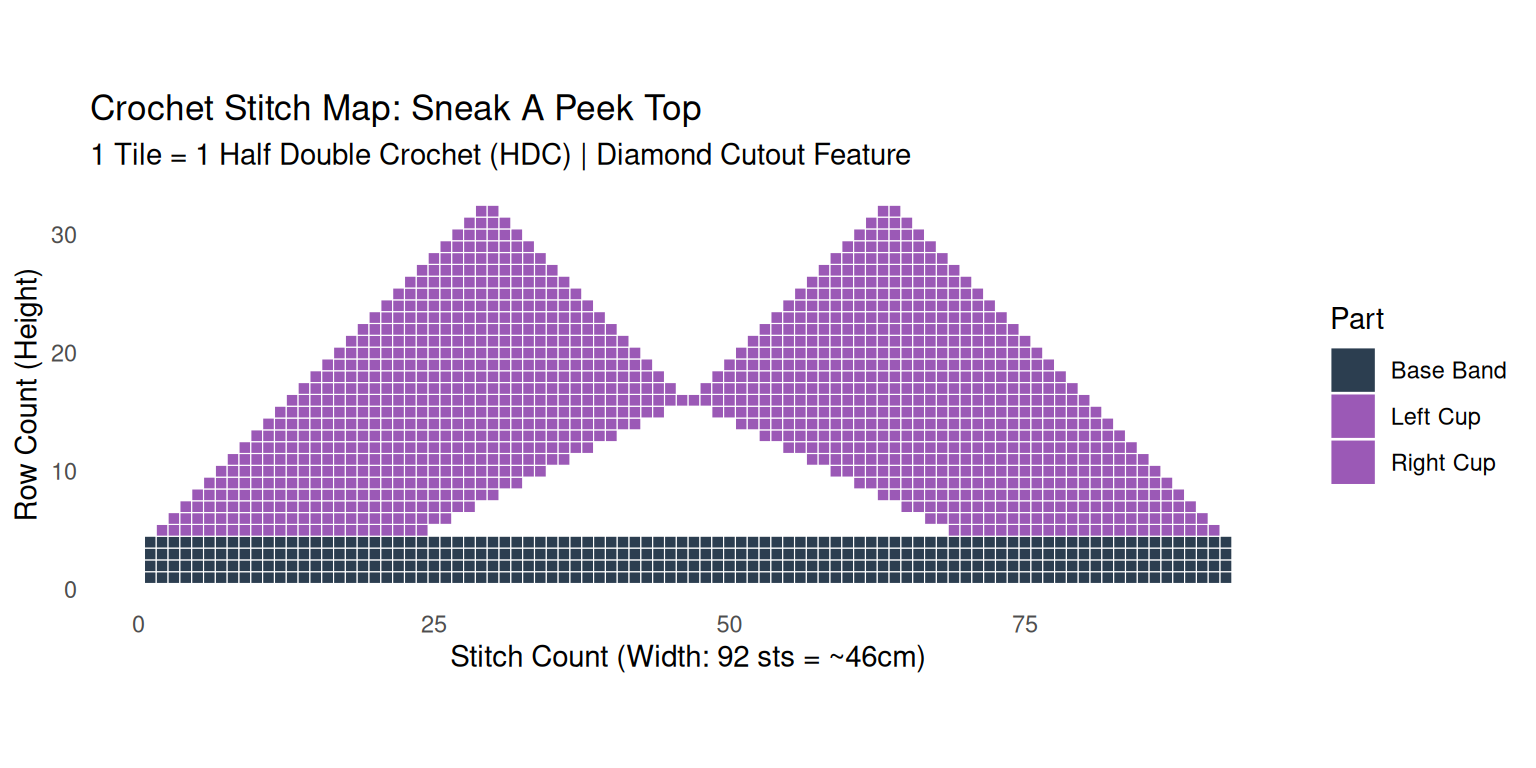
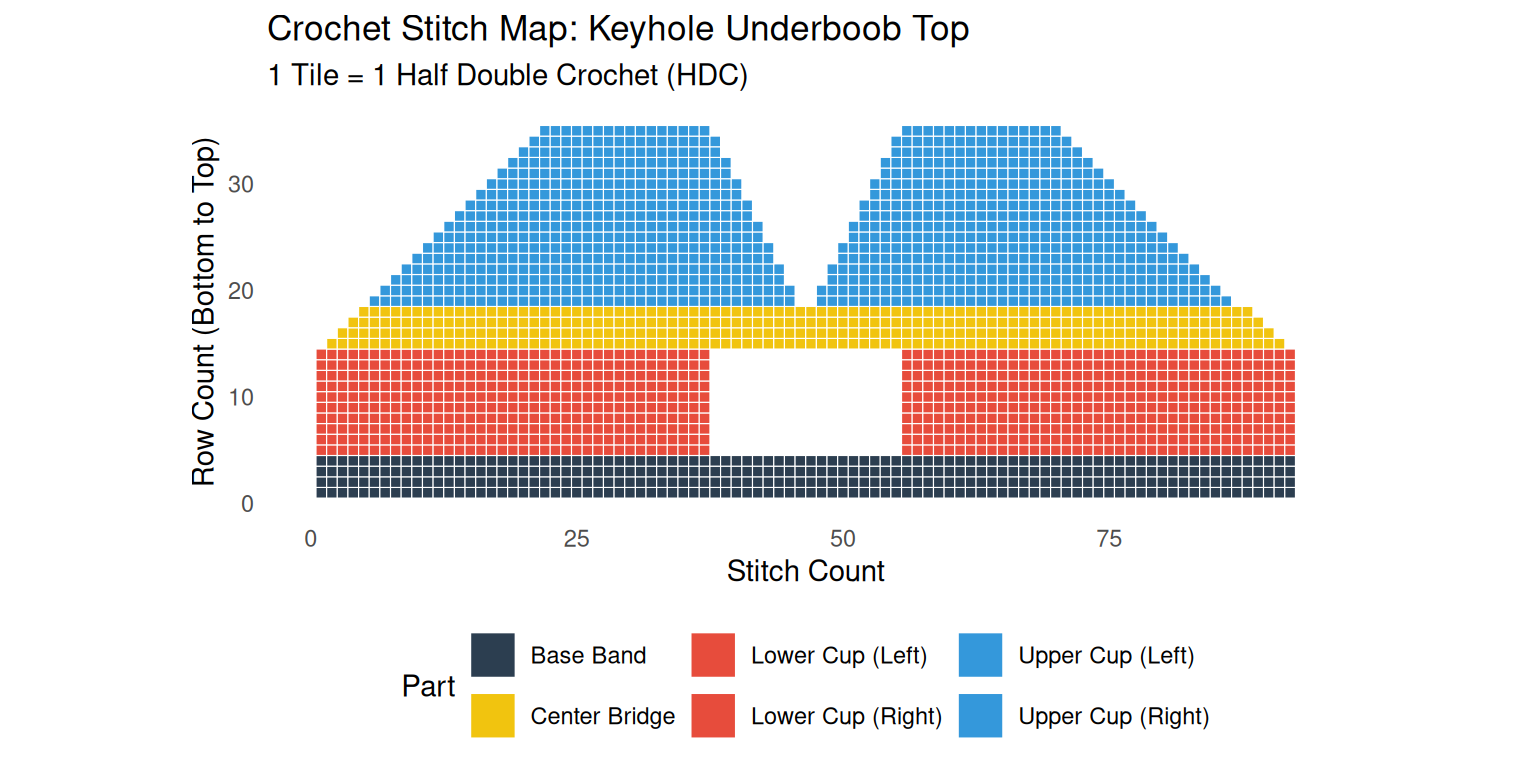
feat: update Sneak A Peek pattern to Keyhole Cutout

diff --git a/docs/projects/sneak_a_peek/index.html b/docs/projects/sneak_a_peek/index.html
@@ -8,7 +8,7 @@
 
 <meta name="dcterms.date" content="2026-05-25">
 
-<title>Sneak A Peek Top – Crochet Patterns</title>
+<title>Keyhole Underboob Top – Crochet Patterns</title>
 <style>
 code{white-space: pre-wrap;}
 span.smallcaps{font-variant: small-caps;}
@@ -155,9 +155,10 @@ pre > code.sourceCode > span > a:first-child::before { text-decoration: underlin
   <li><a href="#stitch-map-visualization" id="toc-stitch-map-visualization" class="nav-link active" data-scroll-target="#stitch-map-visualization">Stitch Map Visualization</a></li>
   <li><a href="#written-pattern" id="toc-written-pattern" class="nav-link" data-scroll-target="#written-pattern">Written Pattern</a>
   <ul class="collapse">
-  <li><a href="#base-band" id="toc-base-band" class="nav-link" data-scroll-target="#base-band">Base Band</a></li>
-  <li><a href="#left-cup" id="toc-left-cup" class="nav-link" data-scroll-target="#left-cup">Left Cup</a></li>
-  <li><a href="#right-cup" id="toc-right-cup" class="nav-link" data-scroll-target="#right-cup">Right Cup</a></li>
+  <li><a href="#base-band" id="toc-base-band" class="nav-link" data-scroll-target="#base-band">1. Base Band</a></li>
+  <li><a href="#the-cutout-region-sides-of-the-window" id="toc-the-cutout-region-sides-of-the-window" class="nav-link" data-scroll-target="#the-cutout-region-sides-of-the-window">2. The Cutout Region (Sides of the Window)</a></li>
+  <li><a href="#the-sternum-bridge-closing-the-window" id="toc-the-sternum-bridge-closing-the-window" class="nav-link" data-scroll-target="#the-sternum-bridge-closing-the-window">3. The Sternum Bridge (Closing the Window)</a></li>
+  <li><a href="#the-upper-cups-triangles" id="toc-the-upper-cups-triangles" class="nav-link" data-scroll-target="#the-upper-cups-triangles">4. The Upper Cups (Triangles)</a></li>
   </ul></li>
   </ul>
 </nav>
@@ -167,7 +168,7 @@ pre > code.sourceCode > span > a:first-child::before { text-decoration: underlin
 
 <header id="title-block-header" class="quarto-title-block default">
 <div class="quarto-title">
-<h1 class="title">Sneak A Peek Top</h1>
+<h1 class="title">Keyhole Underboob Top</h1>
 </div>
 
 
@@ -197,57 +198,56 @@ pre > code.sourceCode > span > a:first-child::before { text-decoration: underlin
 <span id="cb1-2"><a href="#cb1-2" aria-hidden="true" tabindex="-1"></a><span class="fu">library</span>(dplyr)</span>
 <span id="cb1-3"><a href="#cb1-3" aria-hidden="true" tabindex="-1"></a></span>
 <span id="cb1-4"><a href="#cb1-4" aria-hidden="true" tabindex="-1"></a><span class="co"># Gauge: 2 HDC stitches = 1 cm</span></span>
-<span id="cb1-5"><a href="#cb1-5" aria-hidden="true" tabindex="-1"></a><span class="co"># Front panel width = 46 cm (92 stitches)</span></span>
-<span id="cb1-6"><a href="#cb1-6" aria-hidden="true" tabindex="-1"></a></span>
-<span id="cb1-7"><a href="#cb1-7" aria-hidden="true" tabindex="-1"></a>grid <span class="ot">&lt;-</span> <span class="fu">expand.grid</span>(<span class="at">Stitch =</span> <span class="dv">1</span><span class="sc">:</span><span class="dv">92</span>, <span class="at">Row =</span> <span class="dv">1</span><span class="sc">:</span><span class="dv">33</span>)</span>
-<span id="cb1-8"><a href="#cb1-8" aria-hidden="true" tabindex="-1"></a></span>
-<span id="cb1-9"><a href="#cb1-9" aria-hidden="true" tabindex="-1"></a>grid <span class="ot">&lt;-</span> grid <span class="sc">%&gt;%</span></span>
-<span id="cb1-10"><a href="#cb1-10" aria-hidden="true" tabindex="-1"></a>  <span class="fu">mutate</span>(</span>
-<span id="cb1-11"><a href="#cb1-11" aria-hidden="true" tabindex="-1"></a>    <span class="at">Part =</span> <span class="fu">case_when</span>(</span>
-<span id="cb1-12"><a href="#cb1-12" aria-hidden="true" tabindex="-1"></a>      Row <span class="sc">&lt;=</span> <span class="dv">4</span> <span class="sc">~</span> <span class="st">"Base Band"</span>,</span>
-<span id="cb1-13"><a href="#cb1-13" aria-hidden="true" tabindex="-1"></a>      </span>
-<span id="cb1-14"><a href="#cb1-14" aria-hidden="true" tabindex="-1"></a>      <span class="co"># Left Cup Lower (Rows 5 to 16)</span></span>
-<span id="cb1-15"><a href="#cb1-15" aria-hidden="true" tabindex="-1"></a>      <span class="co"># Outer edge shrinks by 1. Inner edge grows by 2.</span></span>
-<span id="cb1-16"><a href="#cb1-16" aria-hidden="true" tabindex="-1"></a>      Row <span class="sc">&gt;</span> <span class="dv">4</span> <span class="sc">&amp;</span> Row <span class="sc">&lt;=</span> <span class="dv">16</span> <span class="sc">&amp;</span> </span>
-<span id="cb1-17"><a href="#cb1-17" aria-hidden="true" tabindex="-1"></a>      Stitch <span class="sc">&gt;=</span> (<span class="dv">1</span> <span class="sc">+</span> (Row<span class="dv">-4</span>)) <span class="sc">&amp;</span> </span>
-<span id="cb1-18"><a href="#cb1-18" aria-hidden="true" tabindex="-1"></a>      Stitch <span class="sc">&lt;=</span> (<span class="dv">22</span> <span class="sc">+</span> <span class="dv">2</span><span class="sc">*</span>(Row<span class="dv">-4</span>)) <span class="sc">~</span> <span class="st">"Left Cup"</span>,</span>
-<span id="cb1-19"><a href="#cb1-19" aria-hidden="true" tabindex="-1"></a>      </span>
-<span id="cb1-20"><a href="#cb1-20" aria-hidden="true" tabindex="-1"></a>      <span class="co"># Left Cup Upper (Rows 17 to 32)</span></span>
-<span id="cb1-21"><a href="#cb1-21" aria-hidden="true" tabindex="-1"></a>      <span class="co"># Outer edge shrinks by 1. Inner edge shrinks by 1.</span></span>
-<span id="cb1-22"><a href="#cb1-22" aria-hidden="true" tabindex="-1"></a>      Row <span class="sc">&gt;</span> <span class="dv">16</span> <span class="sc">&amp;</span> </span>
-<span id="cb1-23"><a href="#cb1-23" aria-hidden="true" tabindex="-1"></a>      Stitch <span class="sc">&gt;=</span> (<span class="dv">13</span> <span class="sc">+</span> (Row<span class="dv">-16</span>)) <span class="sc">&amp;</span> </span>
-<span id="cb1-24"><a href="#cb1-24" aria-hidden="true" tabindex="-1"></a>      Stitch <span class="sc">&lt;=</span> (<span class="dv">46</span> <span class="sc">-</span> (Row<span class="dv">-16</span>)) <span class="sc">~</span> <span class="st">"Left Cup"</span>,</span>
-<span id="cb1-25"><a href="#cb1-25" aria-hidden="true" tabindex="-1"></a>      </span>
-<span id="cb1-26"><a href="#cb1-26" aria-hidden="true" tabindex="-1"></a>      <span class="co"># Right Cup Lower (Rows 5 to 16)</span></span>
-<span id="cb1-27"><a href="#cb1-27" aria-hidden="true" tabindex="-1"></a>      <span class="co"># Inner edge grows by 2. Outer edge shrinks by 1.</span></span>
-<span id="cb1-28"><a href="#cb1-28" aria-hidden="true" tabindex="-1"></a>      Row <span class="sc">&gt;</span> <span class="dv">4</span> <span class="sc">&amp;</span> Row <span class="sc">&lt;=</span> <span class="dv">16</span> <span class="sc">&amp;</span> </span>
-<span id="cb1-29"><a href="#cb1-29" aria-hidden="true" tabindex="-1"></a>      Stitch <span class="sc">&gt;=</span> (<span class="dv">71</span> <span class="sc">-</span> <span class="dv">2</span><span class="sc">*</span>(Row<span class="dv">-4</span>)) <span class="sc">&amp;</span> </span>
-<span id="cb1-30"><a href="#cb1-30" aria-hidden="true" tabindex="-1"></a>      Stitch <span class="sc">&lt;=</span> (<span class="dv">92</span> <span class="sc">-</span> (Row<span class="dv">-4</span>)) <span class="sc">~</span> <span class="st">"Right Cup"</span>,</span>
-<span id="cb1-31"><a href="#cb1-31" aria-hidden="true" tabindex="-1"></a>      </span>
-<span id="cb1-32"><a href="#cb1-32" aria-hidden="true" tabindex="-1"></a>      <span class="co"># Right Cup Upper (Rows 17 to 32)</span></span>
-<span id="cb1-33"><a href="#cb1-33" aria-hidden="true" tabindex="-1"></a>      <span class="co"># Inner edge shrinks by 1. Outer edge shrinks by 1.</span></span>
-<span id="cb1-34"><a href="#cb1-34" aria-hidden="true" tabindex="-1"></a>      Row <span class="sc">&gt;</span> <span class="dv">16</span> <span class="sc">&amp;</span> </span>
-<span id="cb1-35"><a href="#cb1-35" aria-hidden="true" tabindex="-1"></a>      Stitch <span class="sc">&gt;=</span> (<span class="dv">47</span> <span class="sc">+</span> (Row<span class="dv">-16</span>)) <span class="sc">&amp;</span> </span>
-<span id="cb1-36"><a href="#cb1-36" aria-hidden="true" tabindex="-1"></a>      Stitch <span class="sc">&lt;=</span> (<span class="dv">80</span> <span class="sc">-</span> (Row<span class="dv">-16</span>)) <span class="sc">~</span> <span class="st">"Right Cup"</span>,</span>
-<span id="cb1-37"><a href="#cb1-37" aria-hidden="true" tabindex="-1"></a>      </span>
-<span id="cb1-38"><a href="#cb1-38" aria-hidden="true" tabindex="-1"></a>      <span class="cn">TRUE</span> <span class="sc">~</span> <span class="st">"Empty Space"</span></span>
-<span id="cb1-39"><a href="#cb1-39" aria-hidden="true" tabindex="-1"></a>    )</span>
-<span id="cb1-40"><a href="#cb1-40" aria-hidden="true" tabindex="-1"></a>  ) <span class="sc">%&gt;%</span></span>
-<span id="cb1-41"><a href="#cb1-41" aria-hidden="true" tabindex="-1"></a>  <span class="fu">filter</span>(Part <span class="sc">!=</span> <span class="st">"Empty Space"</span>)</span>
-<span id="cb1-42"><a href="#cb1-42" aria-hidden="true" tabindex="-1"></a></span>
-<span id="cb1-43"><a href="#cb1-43" aria-hidden="true" tabindex="-1"></a><span class="co"># Plotting the stitch map</span></span>
-<span id="cb1-44"><a href="#cb1-44" aria-hidden="true" tabindex="-1"></a><span class="fu">ggplot</span>(grid, <span class="fu">aes</span>(<span class="at">x =</span> Stitch, <span class="at">y =</span> Row, <span class="at">fill =</span> Part)) <span class="sc">+</span></span>
-<span id="cb1-45"><a href="#cb1-45" aria-hidden="true" tabindex="-1"></a>  <span class="fu">geom_tile</span>(<span class="at">color =</span> <span class="st">"white"</span>, <span class="at">linewidth =</span> <span class="fl">0.2</span>) <span class="sc">+</span></span>
-<span id="cb1-46"><a href="#cb1-46" aria-hidden="true" tabindex="-1"></a>  <span class="fu">scale_fill_manual</span>(<span class="at">values =</span> <span class="fu">c</span>(<span class="st">"Base Band"</span> <span class="ot">=</span> <span class="st">"#2C3E50"</span>, <span class="st">"Left Cup"</span> <span class="ot">=</span> <span class="st">"#9B59B6"</span>, <span class="st">"Right Cup"</span> <span class="ot">=</span> <span class="st">"#9B59B6"</span>)) <span class="sc">+</span></span>
-<span id="cb1-47"><a href="#cb1-47" aria-hidden="true" tabindex="-1"></a>  <span class="fu">theme_minimal</span>() <span class="sc">+</span></span>
-<span id="cb1-48"><a href="#cb1-48" aria-hidden="true" tabindex="-1"></a>  <span class="fu">coord_fixed</span>(<span class="at">ratio =</span> <span class="dv">1</span>) <span class="sc">+</span> </span>
-<span id="cb1-49"><a href="#cb1-49" aria-hidden="true" tabindex="-1"></a>  <span class="fu">labs</span>(</span>
-<span id="cb1-50"><a href="#cb1-50" aria-hidden="true" tabindex="-1"></a>    <span class="at">title =</span> <span class="st">"Crochet Stitch Map: Sneak A Peek Top"</span>,</span>
-<span id="cb1-51"><a href="#cb1-51" aria-hidden="true" tabindex="-1"></a>    <span class="at">subtitle =</span> <span class="st">"1 Tile = 1 Half Double Crochet (HDC) | Diamond Cutout Feature"</span>,</span>
-<span id="cb1-52"><a href="#cb1-52" aria-hidden="true" tabindex="-1"></a>    <span class="at">x =</span> <span class="st">"Stitch Count (Width: 92 sts = ~46cm)"</span>, </span>
-<span id="cb1-53"><a href="#cb1-53" aria-hidden="true" tabindex="-1"></a>    <span class="at">y =</span> <span class="st">"Row Count (Height)"</span></span>
-<span id="cb1-54"><a href="#cb1-54" aria-hidden="true" tabindex="-1"></a>  ) <span class="sc">+</span></span>
-<span id="cb1-55"><a href="#cb1-55" aria-hidden="true" tabindex="-1"></a>  <span class="fu">theme</span>(<span class="at">panel.grid =</span> <span class="fu">element_blank</span>())</span></code></pre></div><button title="Copy to Clipboard" class="code-copy-button"><i class="bi"></i></button></div>
+<span id="cb1-5"><a href="#cb1-5" aria-hidden="true" tabindex="-1"></a><span class="co"># Front panel width: 92 stitches</span></span>
+<span id="cb1-6"><a href="#cb1-6" aria-hidden="true" tabindex="-1"></a><span class="co"># Nipple distance: Peaks at X=20 and X=72</span></span>
+<span id="cb1-7"><a href="#cb1-7" aria-hidden="true" tabindex="-1"></a></span>
+<span id="cb1-8"><a href="#cb1-8" aria-hidden="true" tabindex="-1"></a>grid <span class="ot">&lt;-</span> <span class="fu">expand.grid</span>(<span class="at">Stitch =</span> <span class="dv">1</span><span class="sc">:</span><span class="dv">92</span>, <span class="at">Row =</span> <span class="dv">1</span><span class="sc">:</span><span class="dv">35</span>)</span>
+<span id="cb1-9"><a href="#cb1-9" aria-hidden="true" tabindex="-1"></a></span>
+<span id="cb1-10"><a href="#cb1-10" aria-hidden="true" tabindex="-1"></a>grid <span class="ot">&lt;-</span> grid <span class="sc">%&gt;%</span></span>
+<span id="cb1-11"><a href="#cb1-11" aria-hidden="true" tabindex="-1"></a>  <span class="fu">mutate</span>(</span>
+<span id="cb1-12"><a href="#cb1-12" aria-hidden="true" tabindex="-1"></a>    <span class="at">Part =</span> <span class="fu">case_when</span>(</span>
+<span id="cb1-13"><a href="#cb1-13" aria-hidden="true" tabindex="-1"></a>      <span class="co"># 1. The Base Band (Solid support under the cutout)</span></span>
+<span id="cb1-14"><a href="#cb1-14" aria-hidden="true" tabindex="-1"></a>      Row <span class="sc">&lt;=</span> <span class="dv">4</span> <span class="sc">~</span> <span class="st">"Base Band"</span>,</span>
+<span id="cb1-15"><a href="#cb1-15" aria-hidden="true" tabindex="-1"></a>      </span>
+<span id="cb1-16"><a href="#cb1-16" aria-hidden="true" tabindex="-1"></a>      <span class="co"># 2. The Cutout Region (Rows 5 to 14)</span></span>
+<span id="cb1-17"><a href="#cb1-17" aria-hidden="true" tabindex="-1"></a>      <span class="co"># Creating the left and right sides, leaving a central 18-stitch gap for the window</span></span>
+<span id="cb1-18"><a href="#cb1-18" aria-hidden="true" tabindex="-1"></a>      Row <span class="sc">&gt;=</span> <span class="dv">5</span> <span class="sc">&amp;</span> Row <span class="sc">&lt;=</span> <span class="dv">14</span> <span class="sc">&amp;</span> Stitch <span class="sc">&lt;=</span> <span class="dv">37</span> <span class="sc">~</span> <span class="st">"Lower Cup (Left)"</span>,</span>
+<span id="cb1-19"><a href="#cb1-19" aria-hidden="true" tabindex="-1"></a>      Row <span class="sc">&gt;=</span> <span class="dv">5</span> <span class="sc">&amp;</span> Row <span class="sc">&lt;=</span> <span class="dv">14</span> <span class="sc">&amp;</span> Stitch <span class="sc">&gt;=</span> <span class="dv">56</span> <span class="sc">~</span> <span class="st">"Lower Cup (Right)"</span>,</span>
+<span id="cb1-20"><a href="#cb1-20" aria-hidden="true" tabindex="-1"></a>      </span>
+<span id="cb1-21"><a href="#cb1-21" aria-hidden="true" tabindex="-1"></a>      <span class="co"># 3. The Sternum Bridge (Rows 15 to 18)</span></span>
+<span id="cb1-22"><a href="#cb1-22" aria-hidden="true" tabindex="-1"></a>      <span class="co"># The fabric reconnects above the hole. The outer edges begin to taper in slightly.</span></span>
+<span id="cb1-23"><a href="#cb1-23" aria-hidden="true" tabindex="-1"></a>      Row <span class="sc">&gt;=</span> <span class="dv">15</span> <span class="sc">&amp;</span> Row <span class="sc">&lt;=</span> <span class="dv">18</span> <span class="sc">&amp;</span> Stitch <span class="sc">&gt;=</span> (<span class="dv">1</span> <span class="sc">+</span> (Row<span class="dv">-14</span>)) <span class="sc">&amp;</span> Stitch <span class="sc">&lt;=</span> (<span class="dv">92</span> <span class="sc">-</span> (Row<span class="dv">-14</span>)) <span class="sc">~</span> <span class="st">"Center Bridge"</span>,</span>
+<span id="cb1-24"><a href="#cb1-24" aria-hidden="true" tabindex="-1"></a>      </span>
+<span id="cb1-25"><a href="#cb1-25" aria-hidden="true" tabindex="-1"></a>      <span class="co"># 4. The Upper Cups (Rows 19 to 35)</span></span>
+<span id="cb1-26"><a href="#cb1-26" aria-hidden="true" tabindex="-1"></a>      <span class="co"># Splits back into two triangles tapering up to the neck straps (X=20 and X=72)</span></span>
+<span id="cb1-27"><a href="#cb1-27" aria-hidden="true" tabindex="-1"></a>      Row <span class="sc">&gt;=</span> <span class="dv">19</span> <span class="sc">&amp;</span> Stitch <span class="sc">&gt;=</span> (<span class="dv">5</span> <span class="sc">+</span> (Row<span class="dv">-18</span>)) <span class="sc">&amp;</span> Stitch <span class="sc">&lt;=</span> (<span class="dv">46</span> <span class="sc">-</span> (Row<span class="dv">-18</span>)<span class="sc">*</span><span class="fl">0.5</span>) <span class="sc">~</span> <span class="st">"Upper Cup (Left)"</span>,</span>
+<span id="cb1-28"><a href="#cb1-28" aria-hidden="true" tabindex="-1"></a>      Row <span class="sc">&gt;=</span> <span class="dv">19</span> <span class="sc">&amp;</span> Stitch <span class="sc">&gt;=</span> (<span class="dv">47</span> <span class="sc">+</span> (Row<span class="dv">-18</span>)<span class="sc">*</span><span class="fl">0.5</span>) <span class="sc">&amp;</span> Stitch <span class="sc">&lt;=</span> (<span class="dv">87</span> <span class="sc">-</span> (Row<span class="dv">-18</span>)) <span class="sc">~</span> <span class="st">"Upper Cup (Right)"</span>,</span>
+<span id="cb1-29"><a href="#cb1-29" aria-hidden="true" tabindex="-1"></a>      </span>
+<span id="cb1-30"><a href="#cb1-30" aria-hidden="true" tabindex="-1"></a>      <span class="cn">TRUE</span> <span class="sc">~</span> <span class="st">"Empty Space"</span></span>
+<span id="cb1-31"><a href="#cb1-31" aria-hidden="true" tabindex="-1"></a>    )</span>
+<span id="cb1-32"><a href="#cb1-32" aria-hidden="true" tabindex="-1"></a>  ) <span class="sc">%&gt;%</span></span>
+<span id="cb1-33"><a href="#cb1-33" aria-hidden="true" tabindex="-1"></a>  <span class="fu">filter</span>(Part <span class="sc">!=</span> <span class="st">"Empty Space"</span>)</span>
+<span id="cb1-34"><a href="#cb1-34" aria-hidden="true" tabindex="-1"></a></span>
+<span id="cb1-35"><a href="#cb1-35" aria-hidden="true" tabindex="-1"></a><span class="co"># Plotting the updated stitch map</span></span>
+<span id="cb1-36"><a href="#cb1-36" aria-hidden="true" tabindex="-1"></a><span class="fu">ggplot</span>(grid, <span class="fu">aes</span>(<span class="at">x =</span> Stitch, <span class="at">y =</span> Row, <span class="at">fill =</span> Part)) <span class="sc">+</span></span>
+<span id="cb1-37"><a href="#cb1-37" aria-hidden="true" tabindex="-1"></a>  <span class="fu">geom_tile</span>(<span class="at">color =</span> <span class="st">"white"</span>, <span class="at">linewidth =</span> <span class="fl">0.2</span>) <span class="sc">+</span></span>
+<span id="cb1-38"><a href="#cb1-38" aria-hidden="true" tabindex="-1"></a>  <span class="fu">scale_fill_manual</span>(<span class="at">values =</span> <span class="fu">c</span>(</span>
+<span id="cb1-39"><a href="#cb1-39" aria-hidden="true" tabindex="-1"></a>    <span class="st">"Base Band"</span> <span class="ot">=</span> <span class="st">"#2C3E50"</span>, </span>
+<span id="cb1-40"><a href="#cb1-40" aria-hidden="true" tabindex="-1"></a>    <span class="st">"Lower Cup (Left)"</span> <span class="ot">=</span> <span class="st">"#E74C3C"</span>, </span>
+<span id="cb1-41"><a href="#cb1-41" aria-hidden="true" tabindex="-1"></a>    <span class="st">"Lower Cup (Right)"</span> <span class="ot">=</span> <span class="st">"#E74C3C"</span>,</span>
+<span id="cb1-42"><a href="#cb1-42" aria-hidden="true" tabindex="-1"></a>    <span class="st">"Center Bridge"</span> <span class="ot">=</span> <span class="st">"#F1C40F"</span>,</span>
+<span id="cb1-43"><a href="#cb1-43" aria-hidden="true" tabindex="-1"></a>    <span class="st">"Upper Cup (Left)"</span> <span class="ot">=</span> <span class="st">"#3498DB"</span>,</span>
+<span id="cb1-44"><a href="#cb1-44" aria-hidden="true" tabindex="-1"></a>    <span class="st">"Upper Cup (Right)"</span> <span class="ot">=</span> <span class="st">"#3498DB"</span></span>
+<span id="cb1-45"><a href="#cb1-45" aria-hidden="true" tabindex="-1"></a>  )) <span class="sc">+</span></span>
+<span id="cb1-46"><a href="#cb1-46" aria-hidden="true" tabindex="-1"></a>  <span class="fu">theme_minimal</span>() <span class="sc">+</span></span>
+<span id="cb1-47"><a href="#cb1-47" aria-hidden="true" tabindex="-1"></a>  <span class="fu">coord_fixed</span>(<span class="at">ratio =</span> <span class="dv">1</span>) <span class="sc">+</span> </span>
+<span id="cb1-48"><a href="#cb1-48" aria-hidden="true" tabindex="-1"></a>  <span class="fu">labs</span>(</span>
+<span id="cb1-49"><a href="#cb1-49" aria-hidden="true" tabindex="-1"></a>    <span class="at">title =</span> <span class="st">"Crochet Stitch Map: Keyhole Underboob Top"</span>,</span>
+<span id="cb1-50"><a href="#cb1-50" aria-hidden="true" tabindex="-1"></a>    <span class="at">subtitle =</span> <span class="st">"1 Tile = 1 Half Double Crochet (HDC)"</span>,</span>
+<span id="cb1-51"><a href="#cb1-51" aria-hidden="true" tabindex="-1"></a>    <span class="at">x =</span> <span class="st">"Stitch Count"</span>, </span>
+<span id="cb1-52"><a href="#cb1-52" aria-hidden="true" tabindex="-1"></a>    <span class="at">y =</span> <span class="st">"Row Count (Bottom to Top)"</span></span>
+<span id="cb1-53"><a href="#cb1-53" aria-hidden="true" tabindex="-1"></a>  ) <span class="sc">+</span></span>
+<span id="cb1-54"><a href="#cb1-54" aria-hidden="true" tabindex="-1"></a>  <span class="fu">theme</span>(<span class="at">panel.grid =</span> <span class="fu">element_blank</span>(), <span class="at">legend.position =</span> <span class="st">"bottom"</span>)</span></code></pre></div><button title="Copy to Clipboard" class="code-copy-button"><i class="bi"></i></button></div>
 <div class="cell-output-display">
 <div>
 <figure class="figure">
@@ -262,23 +262,29 @@ pre > code.sourceCode > span > a:first-child::before { text-decoration: underlin
 <p><strong>Gauge:</strong> 2 HDC = 1 cm<br>
 <strong>Stitches Used:</strong> HDC (Half Double Crochet), Sl St (Slip Stitch), Ch (Chain)</p>
 <section id="base-band" class="level3">
-<h3 class="anchored" data-anchor-id="base-band">Base Band</h3>
+<h3 class="anchored" data-anchor-id="base-band">1. Base Band</h3>
 <ul>
-<li><strong>Row 1:</strong> Foundation HDC 92 (or Ch 93, HDC in 2nd ch from hook and each ch across). (92 sts)</li>
-<li><strong>Rows 2 - 4:</strong> Ch 1, turn. HDC in each st across. (92 sts)</li>
+<li><strong>Rows 1 - 4:</strong> Foundation HDC 92. (Or Ch 93, HDC in 2nd ch from hook and each ch across). For rows 2-4: Ch 1, turn, HDC across. (92 sts)</li>
 </ul>
 </section>
-<section id="left-cup" class="level3">
-<h3 class="anchored" data-anchor-id="left-cup">Left Cup</h3>
-<p><em>Worked over the first 22 stitches of the Base Band. The “inner edge” is the side facing the cleavage. The “outer edge” is the armpit side.</em></p>
-<p><strong>Lower Cup (Increasing Width):</strong> - <strong>Row 5:</strong> With the right side facing you, skip the first stitch (outer edge decrease). Attach yarn to the 2nd stitch. HDC in the next 20 sts. Work 3 HDC in the next st (st 22, the inner edge). Leave the remaining 70 stitches unworked. (23 sts) - <strong>Rows 6 - 16:</strong> Turn, Ch 1. On the inner edge, work 3 HDC into the first/last stitch (this increases by 2 sts). On the outer edge, skip the first/last stitch by either slip stitching at the beginning of the row or leaving it unworked at the end (this decreases by 1 st). You will gain a net of 1 st per row. By Row 16, you will have 34 sts.</p>
-<p><strong>Upper Cup (Decreasing Width):</strong> - <strong>Rows 17 - 32:</strong> Turn, Sl St into the first st. Ch 1, HDC across, leaving the last st unworked. (Each row decreases by 2 sts, one on each edge). - <strong>Final Row (Row 33):</strong> 2 HDC remain. Fasten off, leaving a long tail for the strap.</p>
+<section id="the-cutout-region-sides-of-the-window" class="level3">
+<h3 class="anchored" data-anchor-id="the-cutout-region-sides-of-the-window">2. The Cutout Region (Sides of the Window)</h3>
+<p><em>You will work the left and right sides separately, leaving an 18-stitch gap in the middle.</em></p>
+<p><strong>Left Side:</strong> - <strong>Row 5:</strong> With right side facing, Ch 1. HDC in the first 37 sts. Leave the rest unworked. (37 sts) - <strong>Rows 6 - 14:</strong> Ch 1, turn. HDC in each st across. (37 sts). Fasten off after Row 14.</p>
+<p><strong>Right Side:</strong> - <strong>Row 5:</strong> Skip the next 18 sts of the Base Band (this forms the bottom of the keyhole window). Attach yarn to the 56th stitch. Ch 1, HDC in the same st and the remaining 36 sts. (37 sts) - <strong>Rows 6 - 14:</strong> Ch 1, turn. HDC in each st across. (37 sts). Do not fasten off; you will continue from here.</p>
 </section>
-<section id="right-cup" class="level3">
-<h3 class="anchored" data-anchor-id="right-cup">Right Cup</h3>
-<p><em>Worked over stitches 71 - 92 of the Base Band. This leaves a gap of 48 unworked stitches in the middle to form the base of the diamond cutout.</em></p>
-<p><strong>Lower Cup (Increasing Width):</strong> - <strong>Row 5:</strong> Skip 48 sts from the base of the Left Cup (sts 23-70). Attach yarn to stitch 71 (the inner edge). Work 3 HDC in this first st. HDC in the next 20 sts, leaving the last st (st 92) unworked. (23 sts) - <strong>Rows 6 - 16:</strong> Turn, Ch 1. Just like the Left Cup, decrease 1 st on the outer armpit edge (by skipping the first/last stitch), and increase 2 sts on the inner cleavage edge (by working 3 HDC into the first/last stitch). You will gain 1 st per row, ending with 34 sts on Row 16. <em>(Note: At Row 16, the inner edges of both cups will naturally meet in the center above the cutout!)</em></p>
-<p><strong>Upper Cup (Decreasing Width):</strong> - <strong>Rows 17 - 32:</strong> Turn, Sl St into the first st. Ch 1, HDC across, leaving the last st unworked. (Decreases by 2 sts per row). - <strong>Final Row (Row 33):</strong> 2 HDC remain. Fasten off, leaving a long tail for the strap. You may also slip stitch the two cups together where they touch at Row 16 for extra stability.</p>
+<section id="the-sternum-bridge-closing-the-window" class="level3">
+<h3 class="anchored" data-anchor-id="the-sternum-bridge-closing-the-window">3. The Sternum Bridge (Closing the Window)</h3>
+<ul>
+<li><strong>Row 15:</strong> (Continuing from the right side). Ch 1, turn. Skip the first st. HDC in the next 36 sts of the Right Side. Ch 18 over the keyhole gap. HDC across the 37 sts of the Left Side until 1 st remains. Leave the last st unworked. (90 sts counting the chains)</li>
+<li><strong>Rows 16 - 18:</strong> Ch 1, turn. Skip the first st. HDC across (working into the HDCs and the chains from the previous row) until 1 st remains. Leave the last st unworked. (Each row decreases by 2 stitches. By Row 18, you will have 84 sts).</li>
+</ul>
+</section>
+<section id="the-upper-cups-triangles" class="level3">
+<h3 class="anchored" data-anchor-id="the-upper-cups-triangles">4. The Upper Cups (Triangles)</h3>
+<p><em>You will split the work again to form the two upper triangles.</em></p>
+<p><strong>Left Upper Cup:</strong> - <strong>Row 19:</strong> With right side facing, Ch 1. Skip the first st. HDC in the next 40 sts. Leave the rest unworked. (40 sts) - <strong>Rows 20 - 35:</strong> Ch 1, turn. Decrease 1 st at the armpit edge (outer edge), and alternate decreasing 0 or 1 st at the cleavage edge (inner edge) to follow the taper of the grid (a ratio of roughly 1:0.5 decreases). Continue until only a few stitches remain for the strap. Fasten off.</p>
+<p><strong>Right Upper Cup:</strong> - <strong>Row 19:</strong> Attach yarn to the 48th stitch (leaving a small gap in the center). Ch 1, HDC in the next 40 sts, leaving the last st unworked. (40 sts) - <strong>Rows 20 - 35:</strong> Ch 1, turn. Decrease 1 st at the armpit edge, and alternate decreasing 0 or 1 st at the cleavage edge. Continue until only a few stitches remain. Fasten off.</p>
 
 
 </section>

diff --git a/docs/projects/index.html b/docs/projects/index.html
@@ -139,7 +139,7 @@ ul.task-list li input[type="checkbox"] {
 <p>Welcome to the pattern directory.</p>
 <ul>
 <li><a href="../projects/underboob_top/index.html">Underboob Top</a></li>
-<li><a href="../projects/sneak_a_peek/index.html">Sneak A Peek Top</a></li>
+<li><a href="../projects/sneak_a_peek/index.html">Keyhole Underboob Top</a></li>
 </ul>
 
 